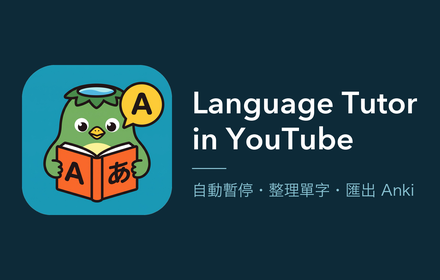
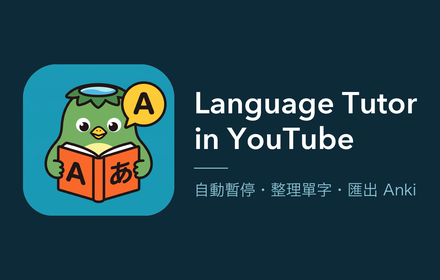
補上 1400x560 跑馬燈宣傳圖
商店規定這張要 JPEG 或 24 位元 PNG、不能有 alpha 透明層。底圖改用 RGB 模式建，
河童貼上去時拿它自己的 alpha 當遮罩，貼完就沒有透明層，存檔前 assert 一次。

腳本改成所有尺寸都按畫面高度換算，所以同一份程式碼出得了 1.57 和 2.5 兩種比例，
兩張看起來還是同一套。整組（河童＋文字）置中，不然 2.5 的比例下右邊會空一大塊。

diff --git a/store/make-promo.py b/store/make-promo.py
@@ -1,32 +1,61 @@
-"""440x280 小宣傳圖。純排版，不經過生圖模型，所以不會有亂碼。
+#!/usr/bin/env python3
+"""商店的宣傳圖：440x560 的小圖塊與 1400x560 的跑馬燈圖塊。
 
-字級用演算法套出來，不是寫死的——寫死的話改一個字就會爆版，
-第一版就是這樣右邊被切掉。
+    python3 store/make-promo.py
+
+需要 Pillow。輸出 store/promo-440x280.png 與 store/promo-1400x560.png。
+
+純排版，不經過生圖模型——生成的圖會在畫面裡寫出不存在的單字。
+（試過一次，字幕那行變成「I active subtitles n active suitoos.」）
+
+兩個刻意的設計：
+
+1. **字級用演算法套出來，不是寫死的。** 第一版寫死 34px，標題右邊直接被切掉。
+   現在是從大往小試到塞得下為止，所以改字、換尺寸都不會爆版。
+2. **所有尺寸都按畫面高度換算**，所以同一份程式碼能出兩種比例，
+   而且兩張看起來是同一套東西。
+
+跑馬燈那張商店要求 JPEG 或 24 位元 PNG、不能有 alpha 透明層。底圖用 RGB 模式建，
+河童貼上去時用它自己的 alpha 當遮罩，貼完就沒有透明層了。
 """
 from PIL import Image, ImageDraw, ImageFont
-import pathlib, sys
+import pathlib
 
-ROOT = pathlib.Path(sys.argv[1])
-OUT = ROOT / 'store' / 'promo-440x280.png'
-S = 3
-W, H = 440 * S, 280 * S
+ROOT = pathlib.Path(__file__).resolve().parent.parent
+ICON_SRC = ROOT / 'store' / 'icon-source-2000.png'
 
 BG, FG, DIM = (13, 42, 56), (255, 255, 255), (138, 196, 212)
 EN_PATH = '/System/Library/Fonts/Avenir Next.ttc'
+EN_INDEX = 2                      # Demi Bold
 CJK_PATH = '/System/Library/Fonts/Hiragino Sans GB.ttc'
 
 TITLE = ['Language Tutor', 'in YouTube']
 TAG = '自動暫停・整理單字・匯出 Anki'
 
-PAD = 22 * S
-ICON = 150 * S
-GAP = 20 * S
-TEXT_X = PAD + ICON + GAP
-TEXT_W = W - TEXT_X - PAD
+SIZES = [(440, 280), (1400, 560)]
+SS = 3                            # 先畫大的再縮，邊緣才銳利
+
+
+def load_icon():
+    """河童，四角去背。原圖的圓角外面是白的，不是透明的。"""
+    im = Image.open(ICON_SRC).convert('RGBA')
+    w, h = im.size
+    rgb = im.convert('RGB')
+    MARK = (255, 0, 255)
+    for c in [(0, 0), (w - 1, 0), (0, h - 1), (w - 1, h - 1)]:
+        ImageDraw.floodfill(rgb, c, MARK, thresh=70)
+    a = Image.new('L', (w, h), 255)
+    px, ap = rgb.load(), a.load()
+    for y in range(h):
+        for x in range(w):
+            if px[x, y] == MARK:
+                ap[x, y] = 0
+    im.putalpha(a)
+    return im
 
 
 def fit(path, lines, max_w, start, index=0):
-    """找出最大的、每一行都塞得下的字級。"""
+    """最大的、每一行都塞得下的字級。"""
     size = start
     while size > 8:
         f = ImageFont.truetype(path, size, index=index)
@@ -36,40 +65,54 @@ def fit(path, lines, max_w, start, index=0):
     raise SystemExit('塞不下')
 
 
-title_f, title_px = fit(EN_PATH, TITLE, TEXT_W, 40 * S, index=2)
-tag_f, _ = fit(CJK_PATH, [TAG], TEXT_W, 17 * S)
+def width_of(font, text):
+    b = font.getbbox(text)
+    return b[2] - b[0]
 
-im = Image.new('RGB', (W, H), BG)
-d = ImageDraw.Draw(im)
 
-icon = Image.open(ROOT / 'store' / 'icon-source-2000.png').convert('RGBA')
-rgb = icon.convert('RGB')
-MARK = (255, 0, 255)
-for c in [(0, 0), (icon.width - 1, 0), (0, icon.height - 1), (icon.width - 1, icon.height - 1)]:
-    ImageDraw.floodfill(rgb, c, MARK, thresh=70)
-a = Image.new('L', icon.size, 255)
-px, ap = rgb.load(), a.load()
-for y in range(icon.height):
-    for x in range(icon.width):
-        if px[x, y] == MARK:
-            ap[x, y] = 0
-icon.putalpha(a)
-icon = icon.resize((ICON, ICON), Image.LANCZOS)
-im.paste(icon, (PAD, (H - ICON) // 2), icon)
+def render(icon, out_w, out_h):
+    W, H = out_w * SS, out_h * SS
+    pad = round(H * 0.08)
+    side = round(H * 0.54)
+    gap = round(H * 0.07)
 
-line_h = int(title_px * 1.18)
-rule_gap = int(title_px * 0.45)
-tag_h = tag_f.getbbox(TAG)[3]
-block = line_h * len(TITLE) + rule_gap + tag_h + rule_gap
-y = (H - block) // 2
+    # 先用最寬的可能空間量字，再回頭把整組置中
+    avail = W - pad * 2 - side - gap
+    title_f, title_px = fit(EN_PATH, TITLE, avail, round(H * 0.143), index=EN_INDEX)
+    tag_f, _ = fit(CJK_PATH, [TAG], avail, round(H * 0.061))
 
-for t in TITLE:
-    d.text((TEXT_X, y), t, font=title_f, fill=FG)
-    y += line_h
-y += rule_gap
-d.line([(TEXT_X, y), (TEXT_X + 34 * S, y)], fill=DIM, width=max(2, S))
-y += rule_gap
-d.text((TEXT_X, y), TAG, font=tag_f, fill=DIM)
+    text_w = max(max(width_of(title_f, t) for t in TITLE), width_of(tag_f, TAG))
+    group_w = side + gap + text_w
+    x0 = (W - group_w) // 2
 
-im.resize((440, 280), Image.LANCZOS).save(OUT, optimize=True)
-print(f'  {OUT.relative_to(ROOT)}  440x280  標題 {title_px // S}px  {OUT.stat().st_size // 1024}KB')
+    im = Image.new('RGB', (W, H), BG)          # RGB，不是 RGBA：輸出不能有 alpha
+    d = ImageDraw.Draw(im)
+
+    ic = icon.resize((side, side), Image.LANCZOS)
+    im.paste(ic, (x0, (H - side) // 2), ic)    # 用 icon 自己的 alpha 當遮罩
+
+    tx = x0 + side + gap
+    line_h = round(title_px * 1.18)
+    rule = round(title_px * 0.45)
+    tag_h = tag_f.getbbox(TAG)[3]
+    block = line_h * len(TITLE) + rule * 2 + tag_h
+    y = (H - block) // 2
+
+    for t in TITLE:
+        d.text((tx, y), t, font=title_f, fill=FG)
+        y += line_h
+    y += rule
+    d.line([(tx, y), (tx + round(H * 0.12), y)], fill=DIM, width=max(2, SS))
+    y += rule
+    d.text((tx, y), TAG, font=tag_f, fill=DIM)
+
+    return im.resize((out_w, out_h), Image.LANCZOS)
+
+
+icon = load_icon()
+for w, h in SIZES:
+    out = ROOT / 'store' / f'promo-{w}x{h}.png'
+    im = render(icon, w, h)
+    assert im.mode == 'RGB', '不能有 alpha 透明層'
+    im.save(out, optimize=True)
+    print(f'  {out.relative_to(ROOT)}  {w}x{h}  {im.mode}  {out.stat().st_size // 1024}KB')

diff --git a/store/listing.md b/store/listing.md
@@ -154,11 +154,15 @@ https://github.com/UncleLin332/youtube-language-tutor/blob/main/PRIVACY.md
 | 商店圖示 | 128×128 | 必要 | `icons/icon128.png` ✅ |
 | 截圖 | 1280×800 | 至少 1 張，最多 5 張 | `store/screenshots/` ✅ 三張 |
 | 小宣傳圖 | 440×280 | 必要 | `store/promo-440x280.png` ✅ |
-| 大宣傳圖 | 1400×560 | 選填 | 沒做 |
+| 跑馬燈宣傳圖 | 1400×560 | 選填 | `store/promo-1400x560.png` ✅ |
 
-小宣傳圖是用 `store/make-promo.py` 排出來的，不是生圖模型畫的——生成的圖
+兩張宣傳圖都是 `store/make-promo.py` 排出來的，不是生圖模型畫的——生成的圖
 會在畫面裡寫出不存在的單字（試過一次，字幕那行變成
 `I active subtitles n active suitoos.`）。
+
+跑馬燈那張商店規定 **JPEG 或 24 位元 PNG、不能有 alpha 透明層**。腳本的底圖
+用 RGB 模式建（不是 RGBA），河童貼上去時拿它自己的 alpha 當遮罩，貼完就沒有
+透明層了，最後再 assert 一次確認。
 
 排版遵守官方素材指引的兩條建議：**避免文字**（只有名稱和一行說明，沒有功能列表）
 和**縮到一半還要看得懂**（字級是演算法套出來的，不是寫死的，所以改字不會爆版）。

diff --git a/README.md b/README.md
@@ -188,13 +188,14 @@ python3 store/make-screenshots.py <原圖資料夾> store/screenshots
 商店只接受的 1.6 比例，並把兩個帳號頭像模糊掉。
 
 ```bash
-python3 store/make-promo.py .    # 440×280 小宣傳圖
+python3 store/make-promo.py    # 440×280 小宣傳圖與 1400×560 跑馬燈圖
 ```
 
-小宣傳圖是排版排出來的，不是生圖模型畫的——生成的圖會在畫面裡寫出不存在的單字。
+宣傳圖是排版排出來的，不是生圖模型畫的——生成的圖會在畫面裡寫出不存在的單字。
 字級是演算法套出來的而不是寫死的，所以改了字也不會爆版（第一版寫死，右邊直接被切掉）。
+所有尺寸都按畫面高度換算，所以同一份程式碼出得了 1.57 和 2.5 兩種比例，兩張還是同一套。
 
-商店要的素材到這裡就齊了：圖示、三張截圖、小宣傳圖。
+商店要的素材到這裡全部齊了：圖示、五張截圖、小宣傳圖、跑馬燈宣傳圖。
 
 `test/run.js` 會檢查 manifest 裡的圖示路徑真的有檔案——指到不存在的圖，
 Chrome 是**整包載入失敗**，不是只少一張圖。
